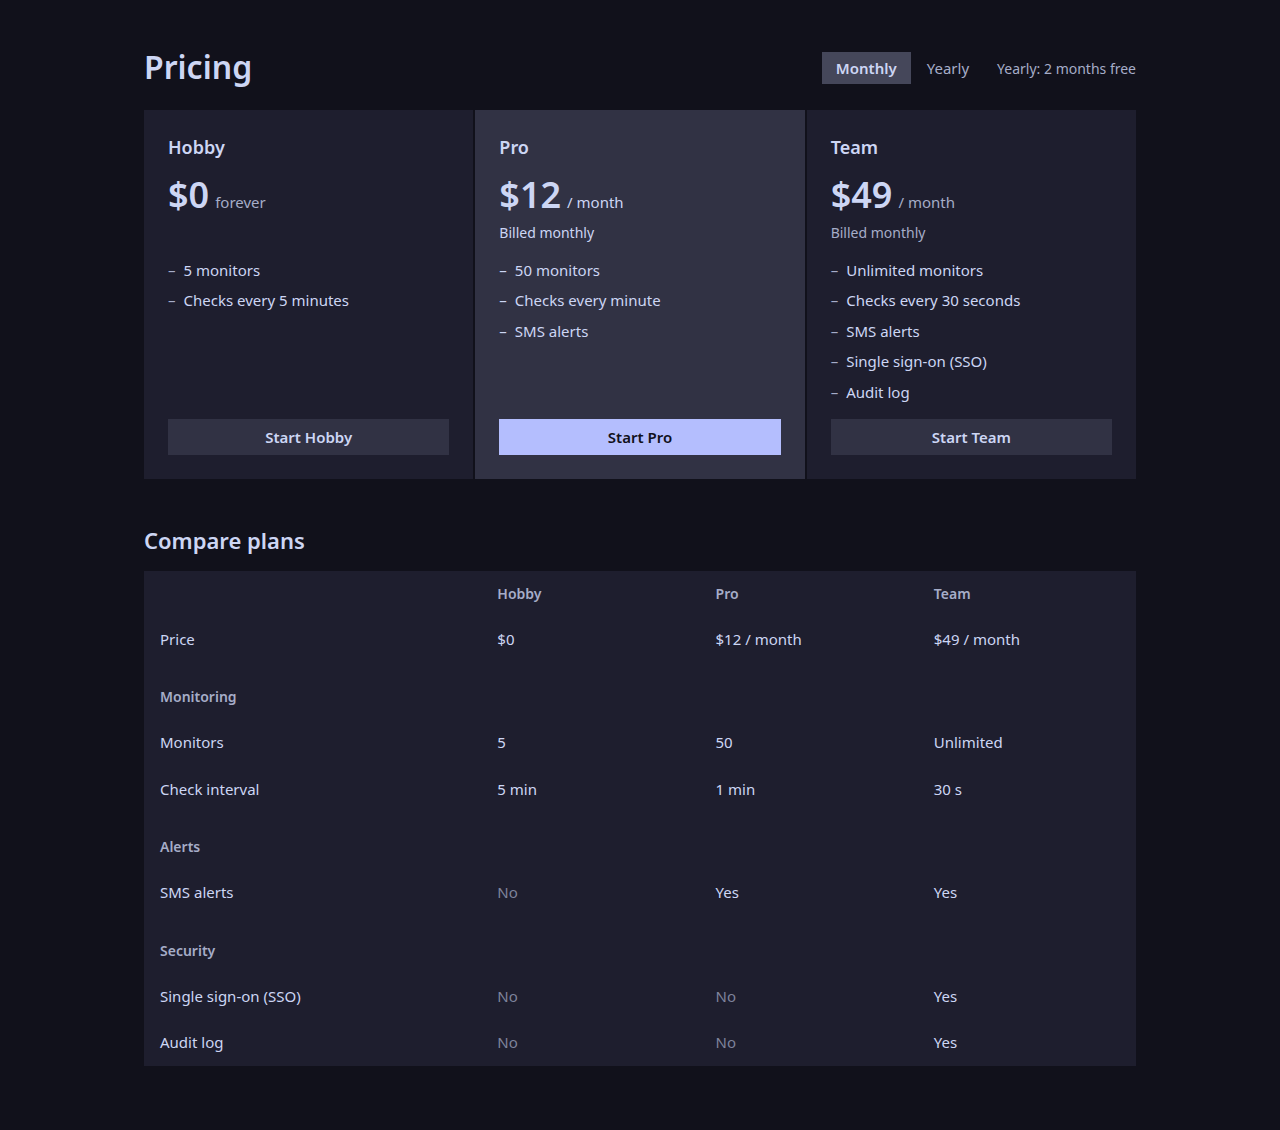
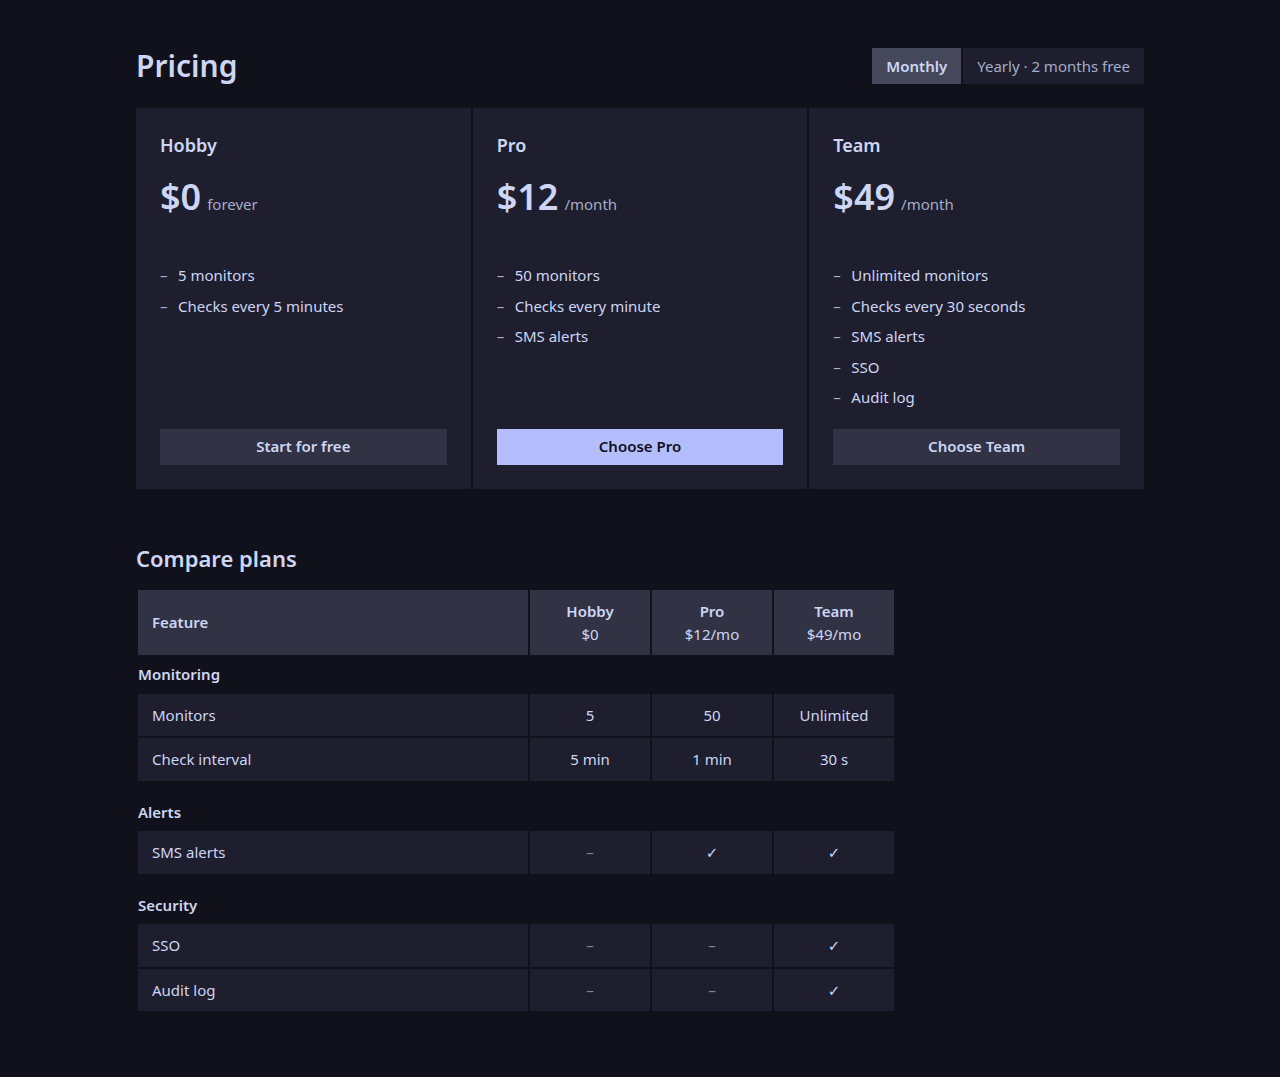
Add table rules, regenerate pricing example

diff --git a/SKILL.md b/SKILL.md
@@ -63,7 +63,15 @@ Colors that belong to the content rather than the interface — product swatches
 Surfaces step outward from the crust: `--bg` → `--panel` → `--raised` → `--raised-2`. Inputs step inward: `--sunken` on a panel.
 
 - **Grouping:** related things share a `--panel`. Separate groups with a gap that shows crust, never a divider. `gap: 2px` between filled children gives clean seams.
-- **Tables:** no cell borders. Zebra rows or generous row padding; hover `--raised`, selected `--raised-2`. Header row in `--text-2`, weight 600.
+- **Tables:** a grid of filled cells with crust seams instead of borders, so columns separate as clearly as rows:
+  ```css
+  table { border-collapse: separate; border-spacing: 2px; background: var(--bg); }
+  th, td { background: var(--panel); padding: 10px 14px; }
+  thead th { background: var(--raised); font-weight: 600; }
+  ```
+  Hover a row's cells `--raised`, selected `--raised-2`. Numbers right-aligned with `tabular-nums`, text left.
+- **Table size:** fit the content. Value columns are as wide as their longest value; the label column takes the rest; stop around 760px unless the data needs more. A few columns stretched across the page read as empty.
+- **Comparison tables:** values centered, ✓ for yes and – in `--text-3` for no. Group titles are plain bold rows on the background, not filled cells.
 - **Emphasis**, weakest first: text color, then weight (400 → 600), then surface, then accent fill. At most one accent-filled element per view, and never on repeated markers like unread indicators — unread is bold text.
 - **States:** hover one surface step up, pressed two. Selected `--raised-2`. Disabled `--text-3`.
 - **Status and category:** an 8px square of the color before a label in `--text`, so color is never the only signal (several Latte colors are too light to stand alone). Never colored text, tinted backgrounds or colored borders. States beyond the four status colors and groups beyond the four categories get a plain label, not another color.
